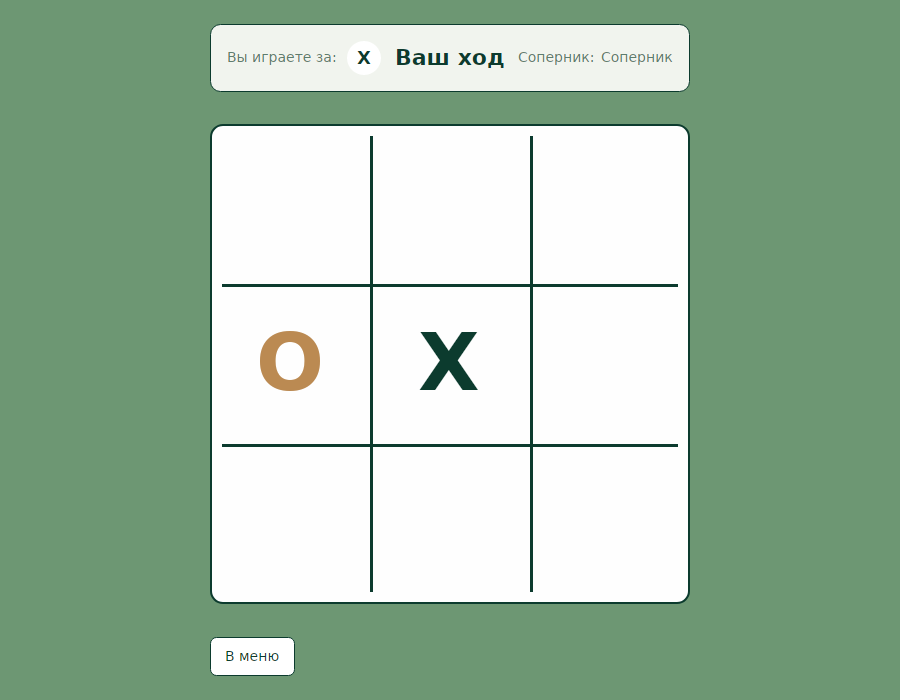
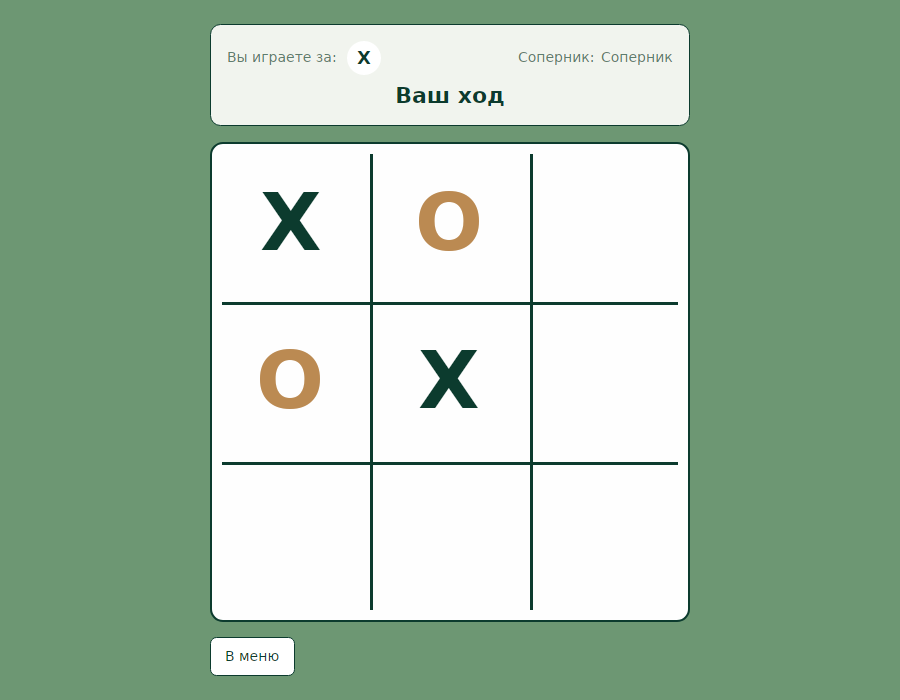
исправил наложение статуса в шапке и результат партии
статус вынесен отдельной строкой, длинный текст обрезается многоточием;
после конца партии сообщение об уходе соперника больше не перекрывает
результат, лишняя кнопка «В меню» внизу скрыта. скриншоты обновлены.

diff --git a/src/TicTacToe.Client.Core/ViewModels/GameViewModel.cs b/src/TicTacToe.Client.Core/ViewModels/GameViewModel.cs
@@ -1,3 +1,4 @@
+using System;
 using System.Collections.ObjectModel;
 using CommunityToolkit.Mvvm.ComponentModel;
 using CommunityToolkit.Mvvm.Input;
@@ -114,8 +115,17 @@ public sealed partial class GameViewModel : ObservableObject, IDisposable
         };
     }
 
-    private void OnServerError(object? sender, ErrorMessage error) =>
+    private void OnServerError(object? sender, ErrorMessage error)
+    {
+        // После конца партии сообщение об уходе соперника уже не важно:
+        // результат на экране должен остаться тем, который определил сервер.
+        if (IsGameOver && string.Equals(error.Code, "opponent_left", StringComparison.OrdinalIgnoreCase))
+        {
+            return;
+        }
+
         StatusMessage = error.Message;
+    }
 
     private void UpdateClickability()
     {

diff --git a/README.md b/README.md
@@ -93,10 +93,13 @@ tests/
 - [`waiting.png`](docs/images/waiting.png) — ожидание соперника
 - [`lobby.png`](docs/images/lobby.png) — список открытых игр
 - [`game.png`](docs/images/game.png) — игровое поле
+- [`game-over.png`](docs/images/game-over.png) — экран результата партии
 
 | Меню | Ожидание | Лобби | Игра |
 |---|---|---|---|
 | ![Меню](docs/images/main-menu.png) | ![Ожидание](docs/images/waiting.png) | ![Лобби](docs/images/lobby.png) | ![Игра](docs/images/game.png) |
+
+![Результат партии](docs/images/game-over.png)
 
 ## Разработка
 
